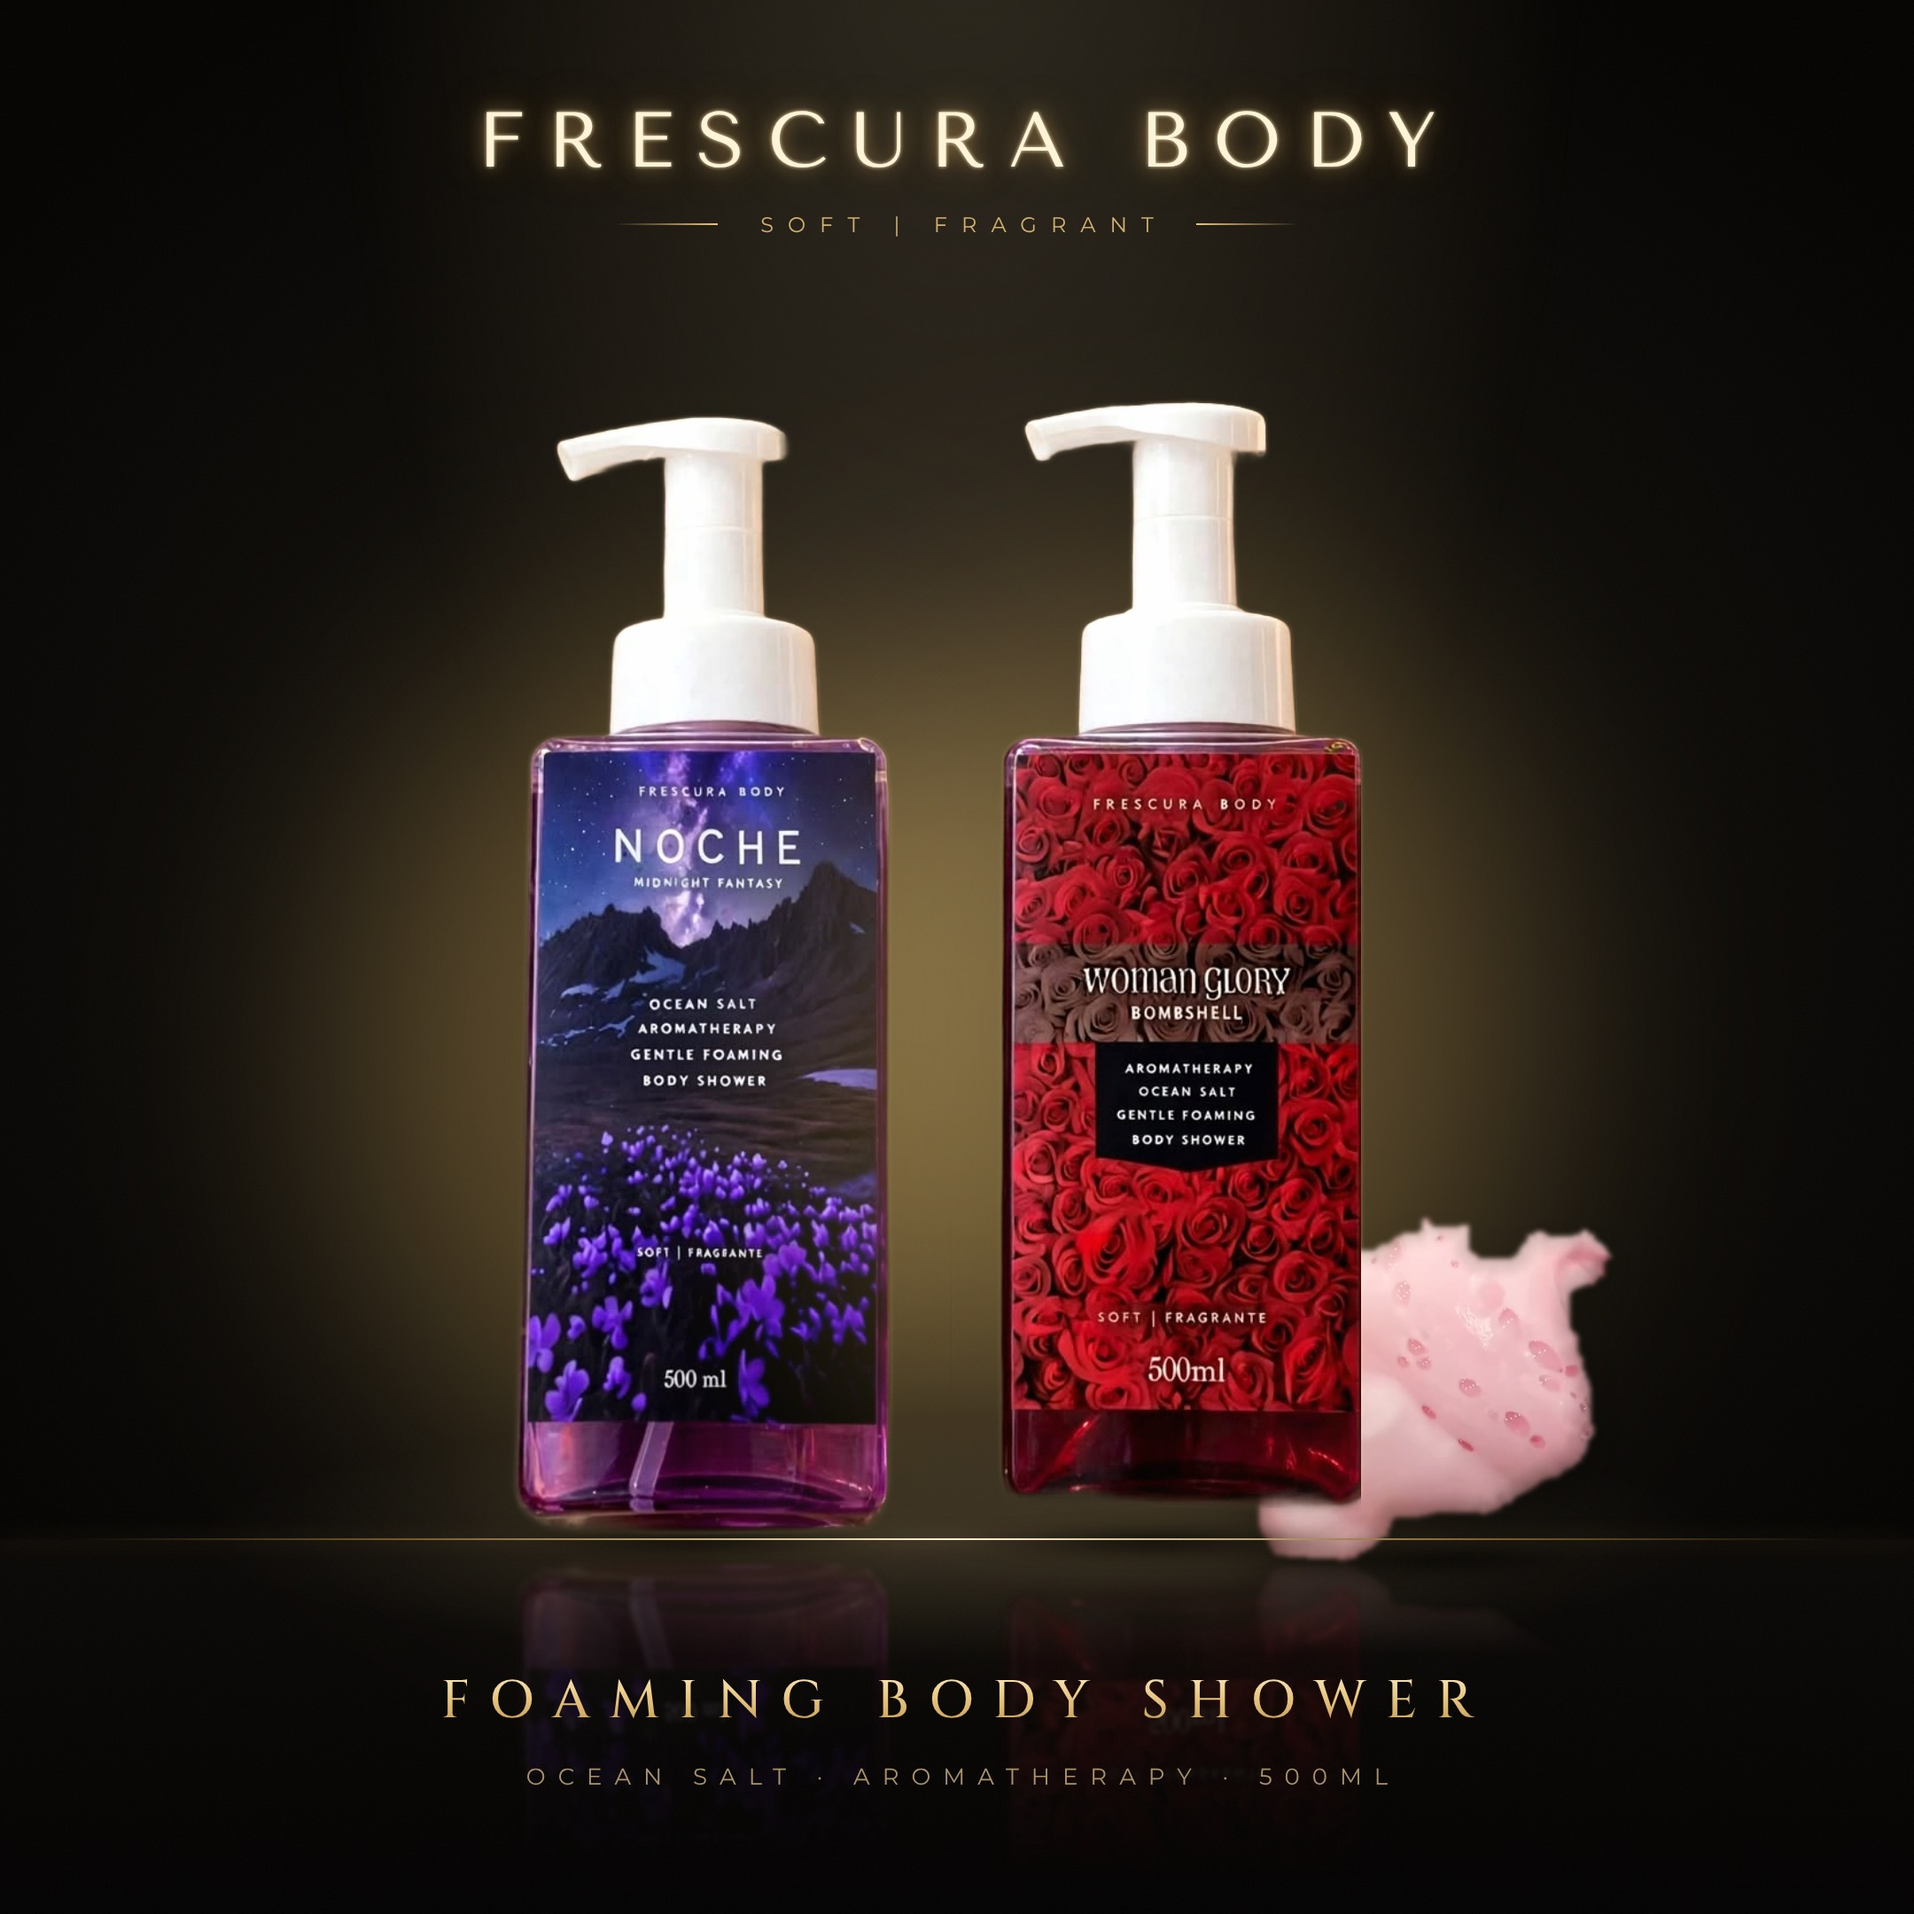
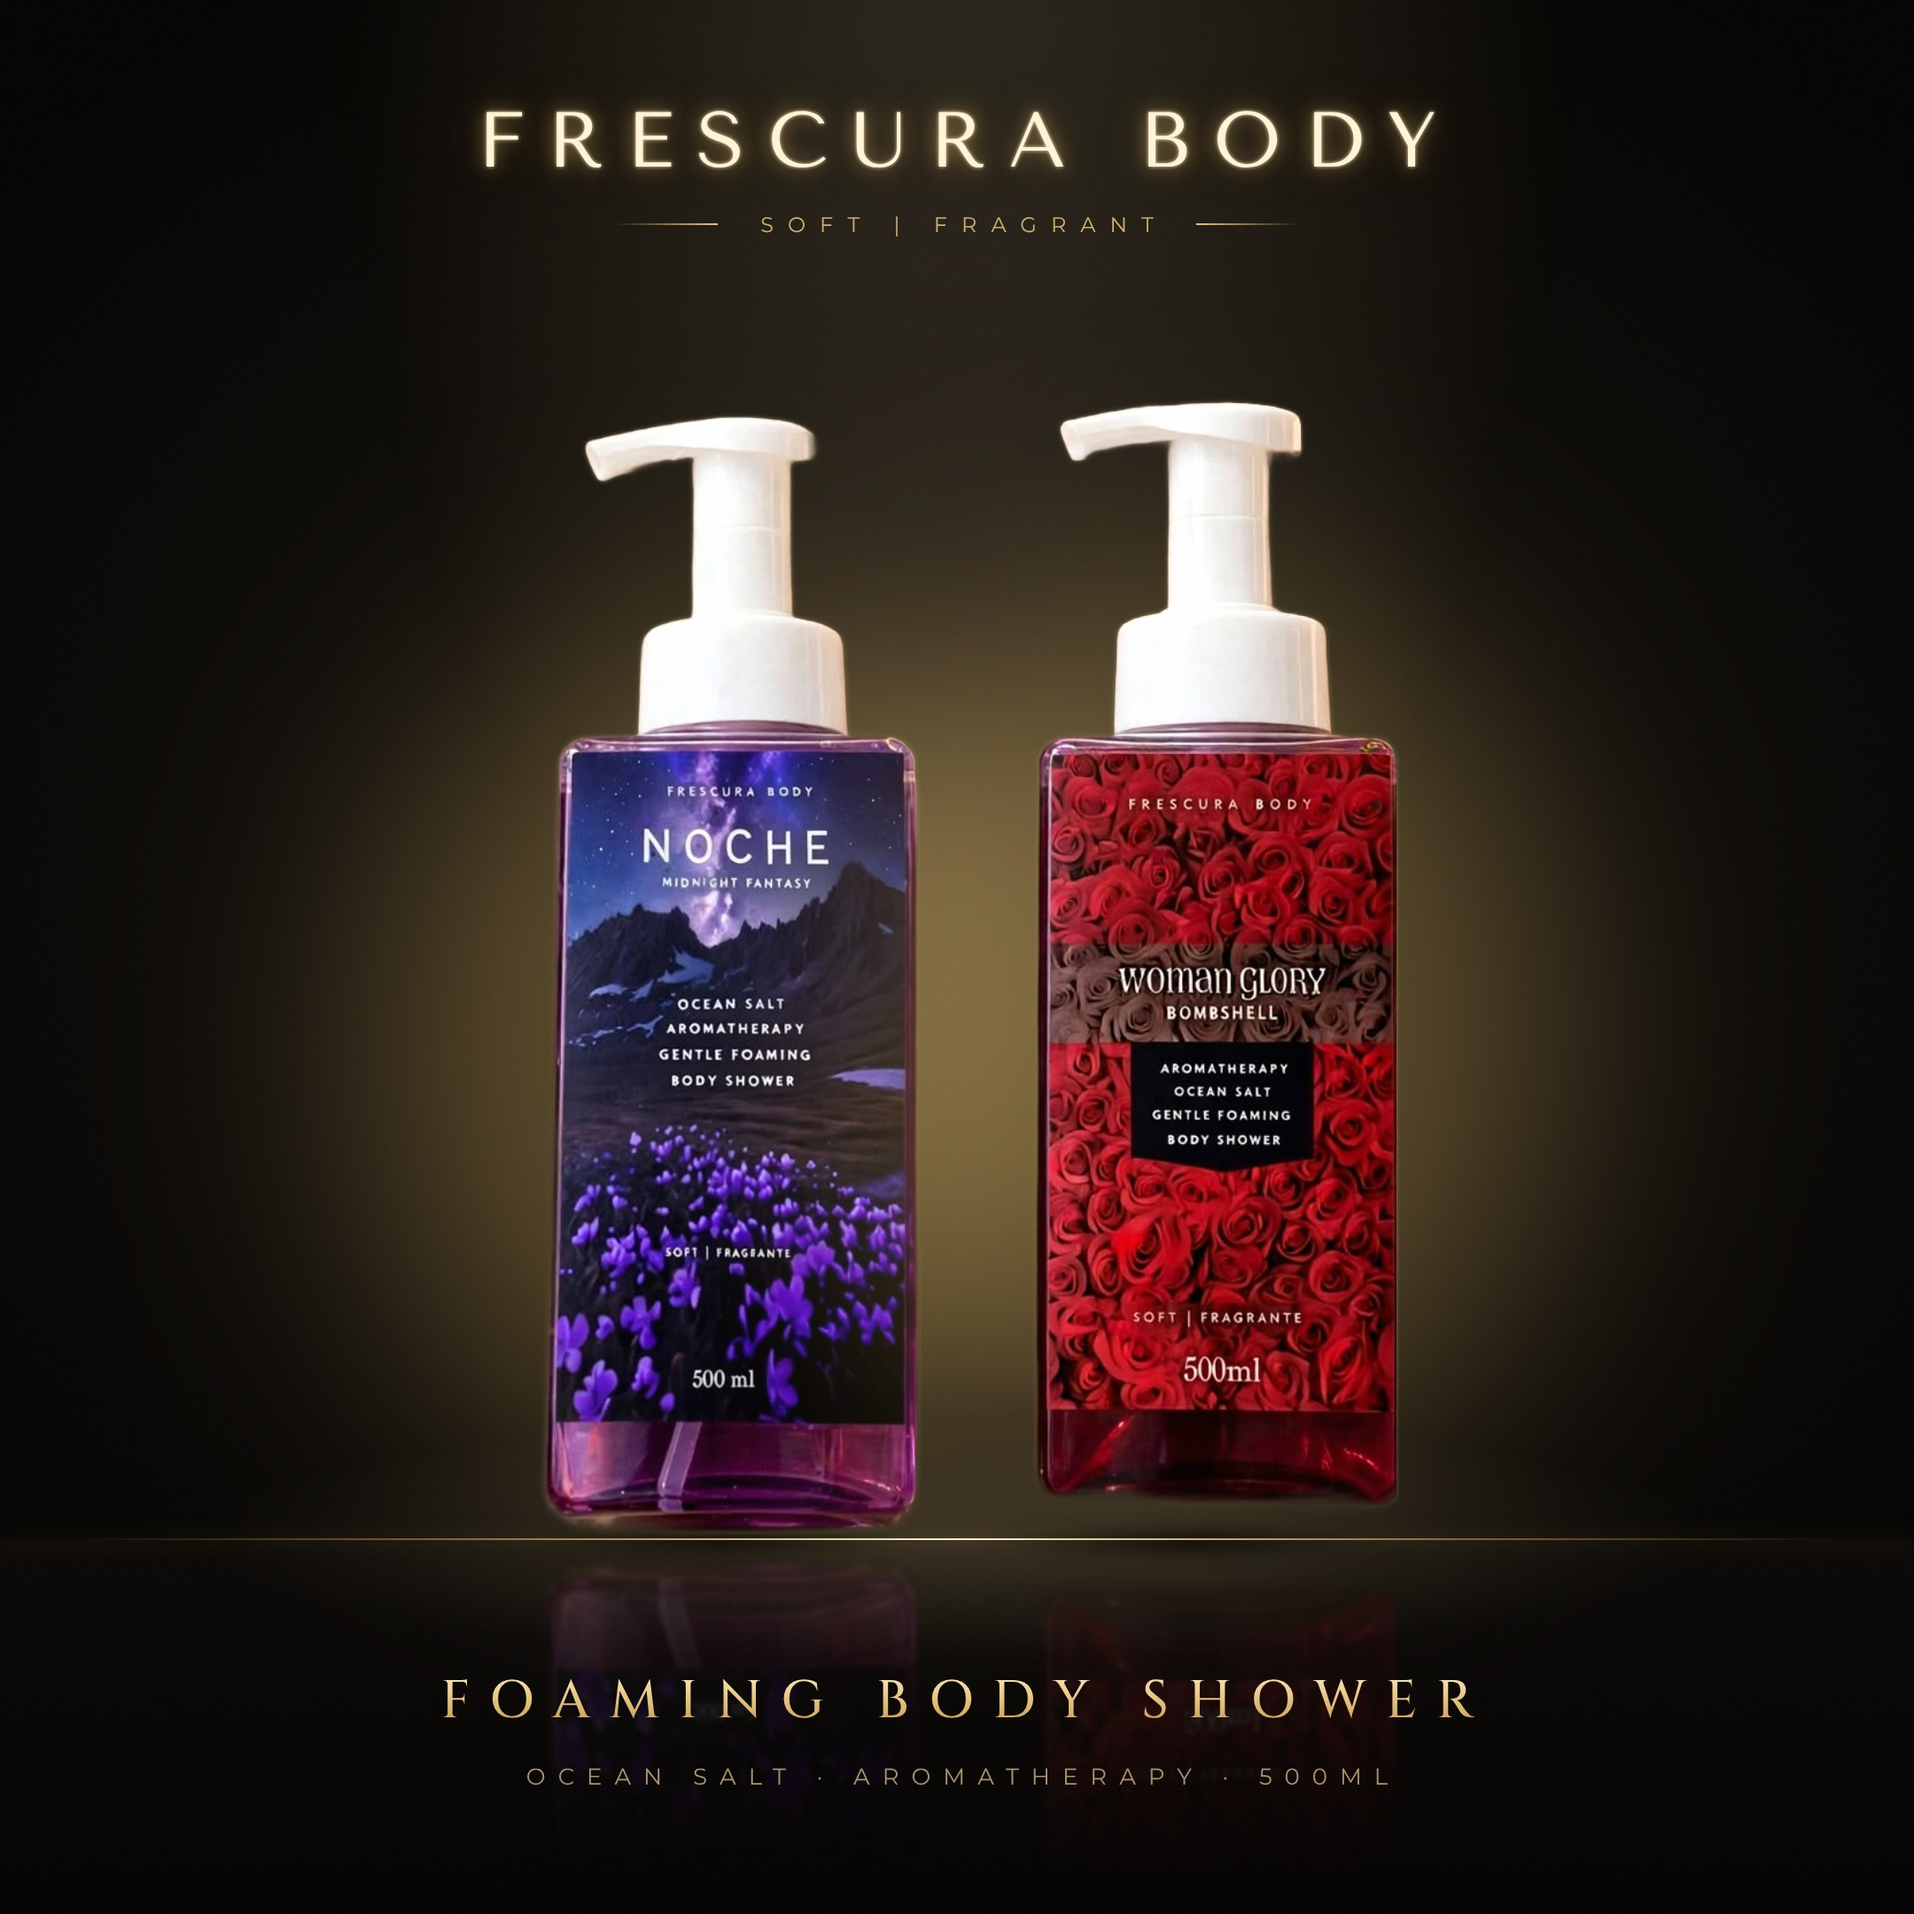
Remove foam from black & gold product images; recentre bottles
Claude-Session: https://claude.ai/code/session_01EnT89DroVnKFhuXbKWdgpB

Changed region(s): [[0.2481, 0.1861, 0.8375, 0.8375], [0.2792, 0.8375, 0.3102, 0.8685]]

diff --git a/poster/studio_gold.html b/poster/studio_gold.html
@@ -60,11 +60,11 @@ const FOAM=[944,900];
 
 // bottles: [src, centerX, height-in-Noche-units]; foam: [centerX, width, dy below floor line]
 const L={
-  duo:{floorY:868,bottles:[['assets/noche.png',392,640],['assets/womanglory.png',652,640]],foam:[[808,210,16]],
+  duo:{floorY:868,bottles:[['assets/noche.png',408,640],['assets/womanglory.png',672,640]],foam:[],
        title:'FOAMING BODY SHOWER',sub:'OCEAN SALT  ·  AROMATHERAPY  ·  500ML'},
   noche:{floorY:868,bottles:[['assets/noche.png',540,676]],foam:[],
        title:'NOCHE',sub:'MIDNIGHT FANTASY  ·  FOAMING BODY SHOWER'},
-  wg:{floorY:868,bottles:[['assets/womanglory.png',500,640]],foam:[[690,230,16]],
+  wg:{floorY:868,bottles:[['assets/womanglory.png',540,640]],foam:[],
        title:'WOMAN GLORY',sub:'BOMBSHELL  ·  FOAMING BODY SHOWER'},
 }[v];
 
